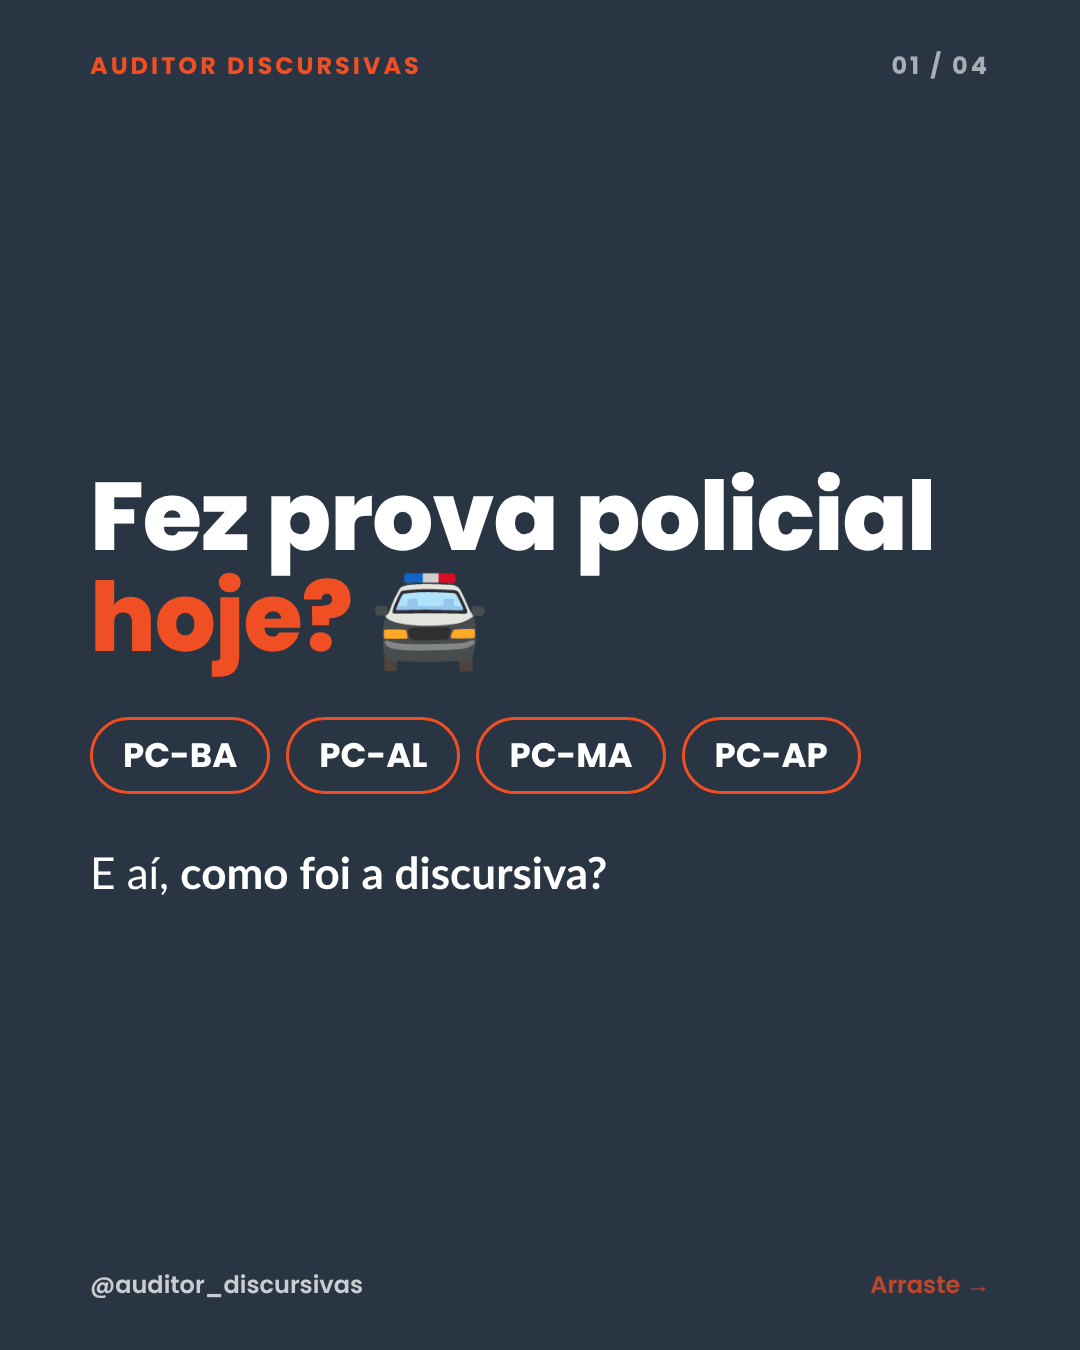
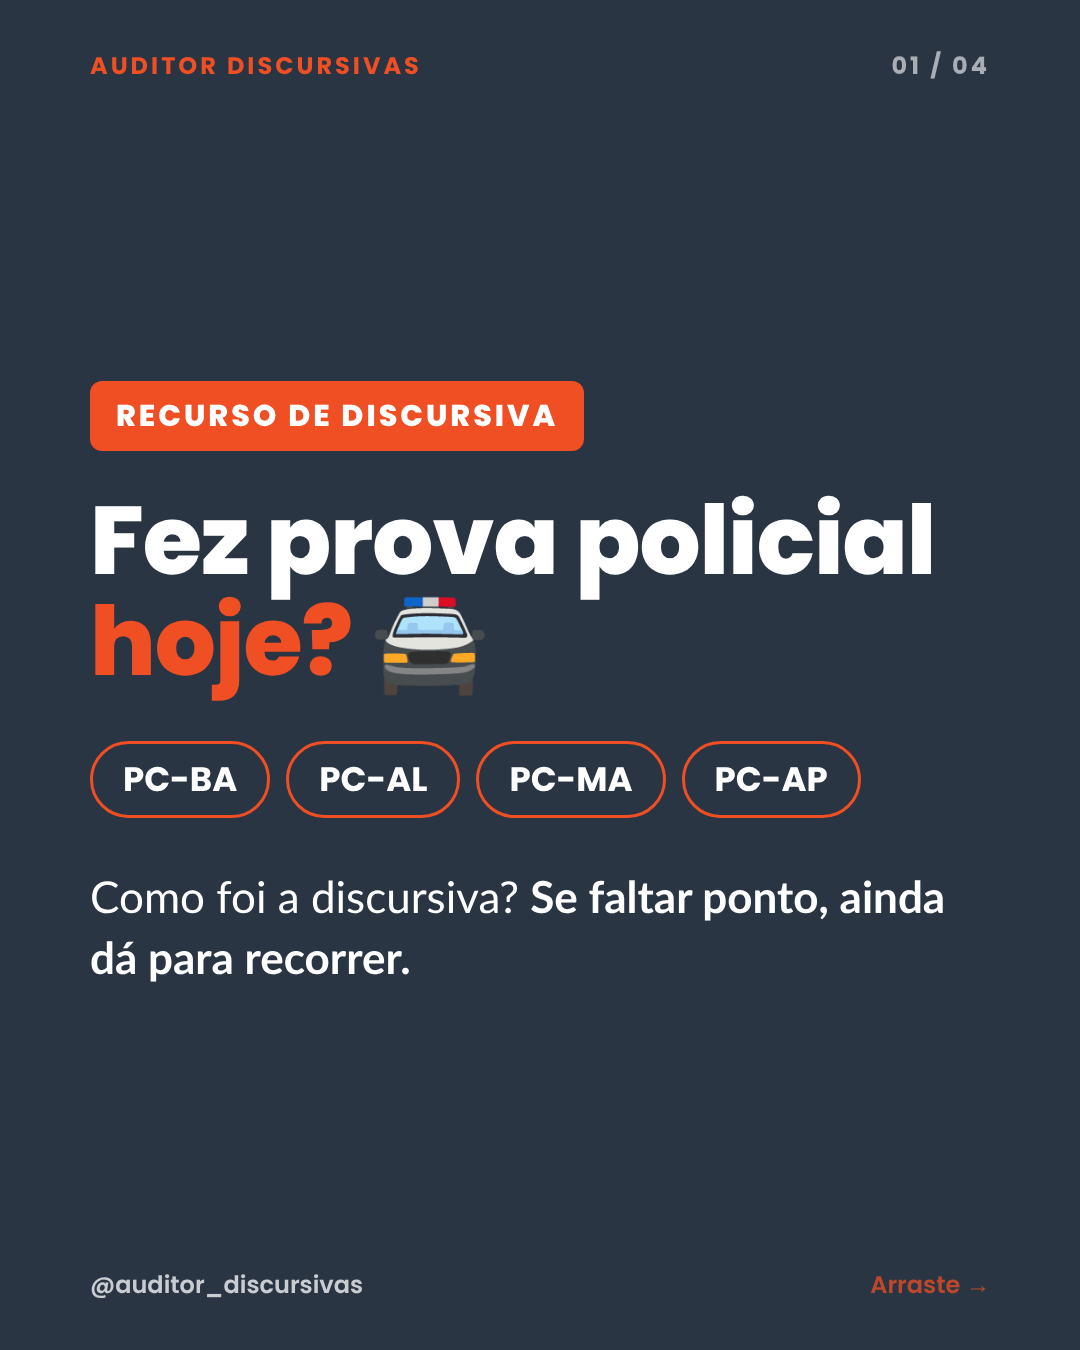
Pós-prova policial: capa com selo RECURSO DE DISCURSIVA
Claude-Session: https://claude.ai/code/session_01EgMW37fCa7VUd5qyR39tLp

Changed region(s): [[0.0611, 0.28, 0.8861, 0.7467]]

diff --git a/fontes/campanha-pos-prova-policial/carrossel.html b/fontes/campanha-pos-prova-policial/carrossel.html
@@ -49,9 +49,10 @@ p.mid{font-size:38px;line-height:1.45}
 <section class="s navy">
  <div class="top"><span class="wm">AUDITOR DISCURSIVAS</span><span class="ct">01 / 04</span></div>
  <div class="sp"></div>
+ <div style="align-self:flex-start;background:var(--lar);color:#fff;font-family:Poppins;font-weight:800;font-size:30px;letter-spacing:3px;border-radius:12px;padding:12px 26px;margin-bottom:40px">RECURSO DE DISCURSIVA</div>
  <h1>Fez prova policial <em>hoje?</em> 🚔</h1>
  <div class="chips"><span class="chip">PC-BA</span><span class="chip">PC-AL</span><span class="chip">PC-MA</span><span class="chip">PC-AP</span></div>
- <p class="big">E aí, <b>como foi a discursiva?</b></p>
+ <p class="big">Como foi a discursiva? <b>Se faltar ponto, ainda dá para recorrer.</b></p>
  <div class="sp"></div>
  <div class="rod"><span>@auditor_discursivas</span><span class="sv">Arraste →</span></div>
 </section>
